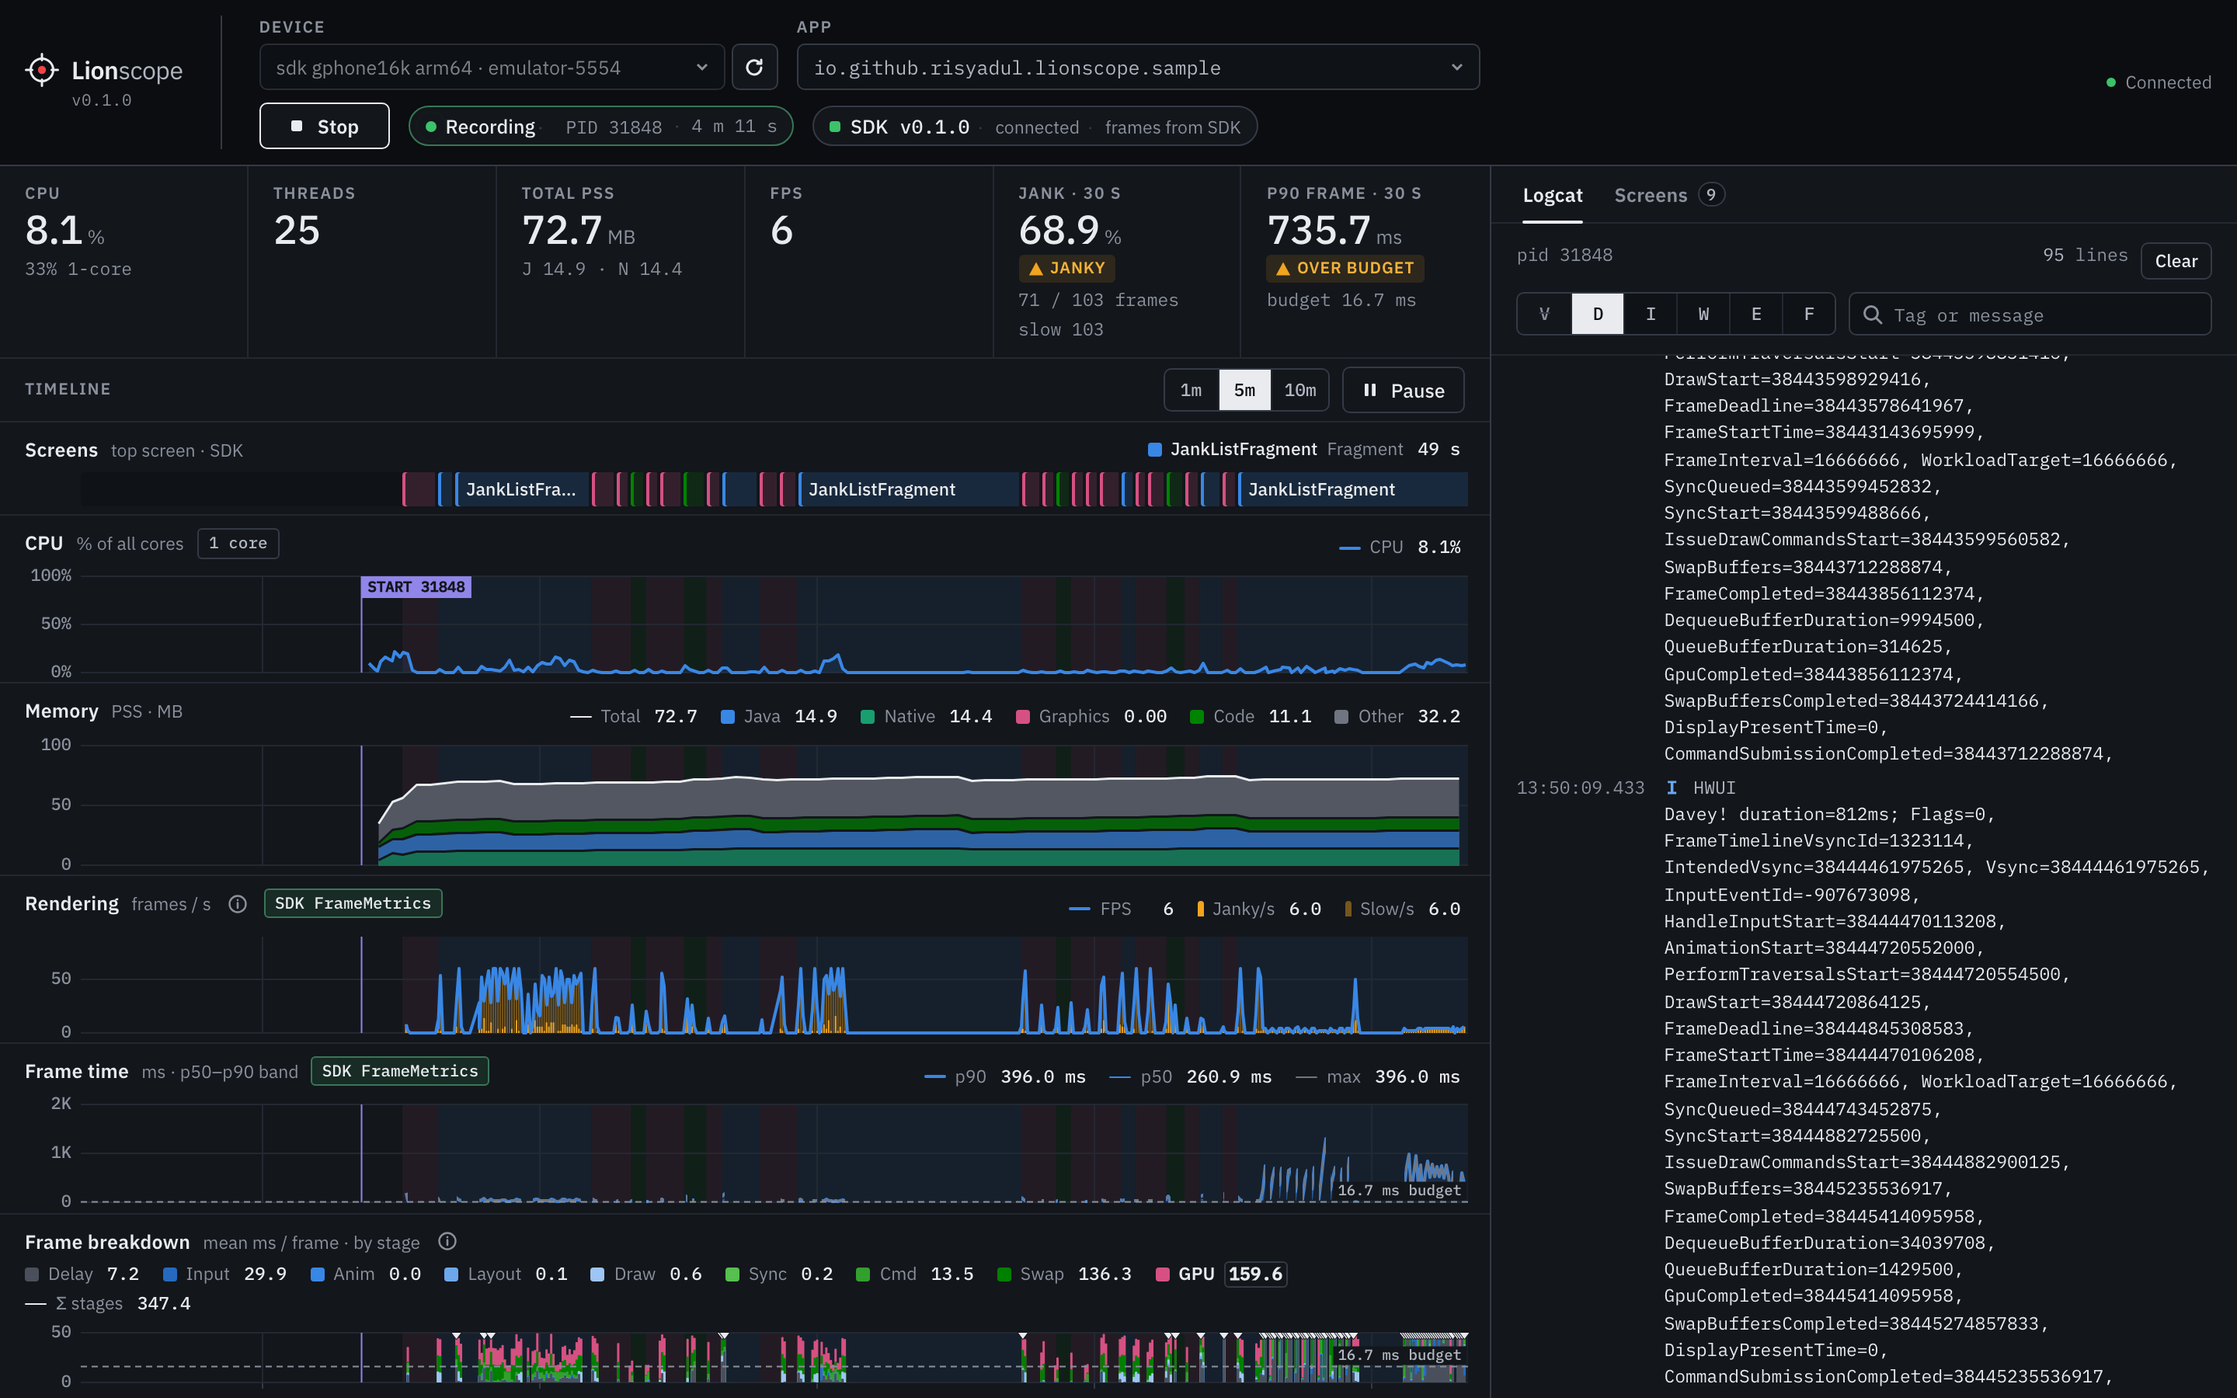
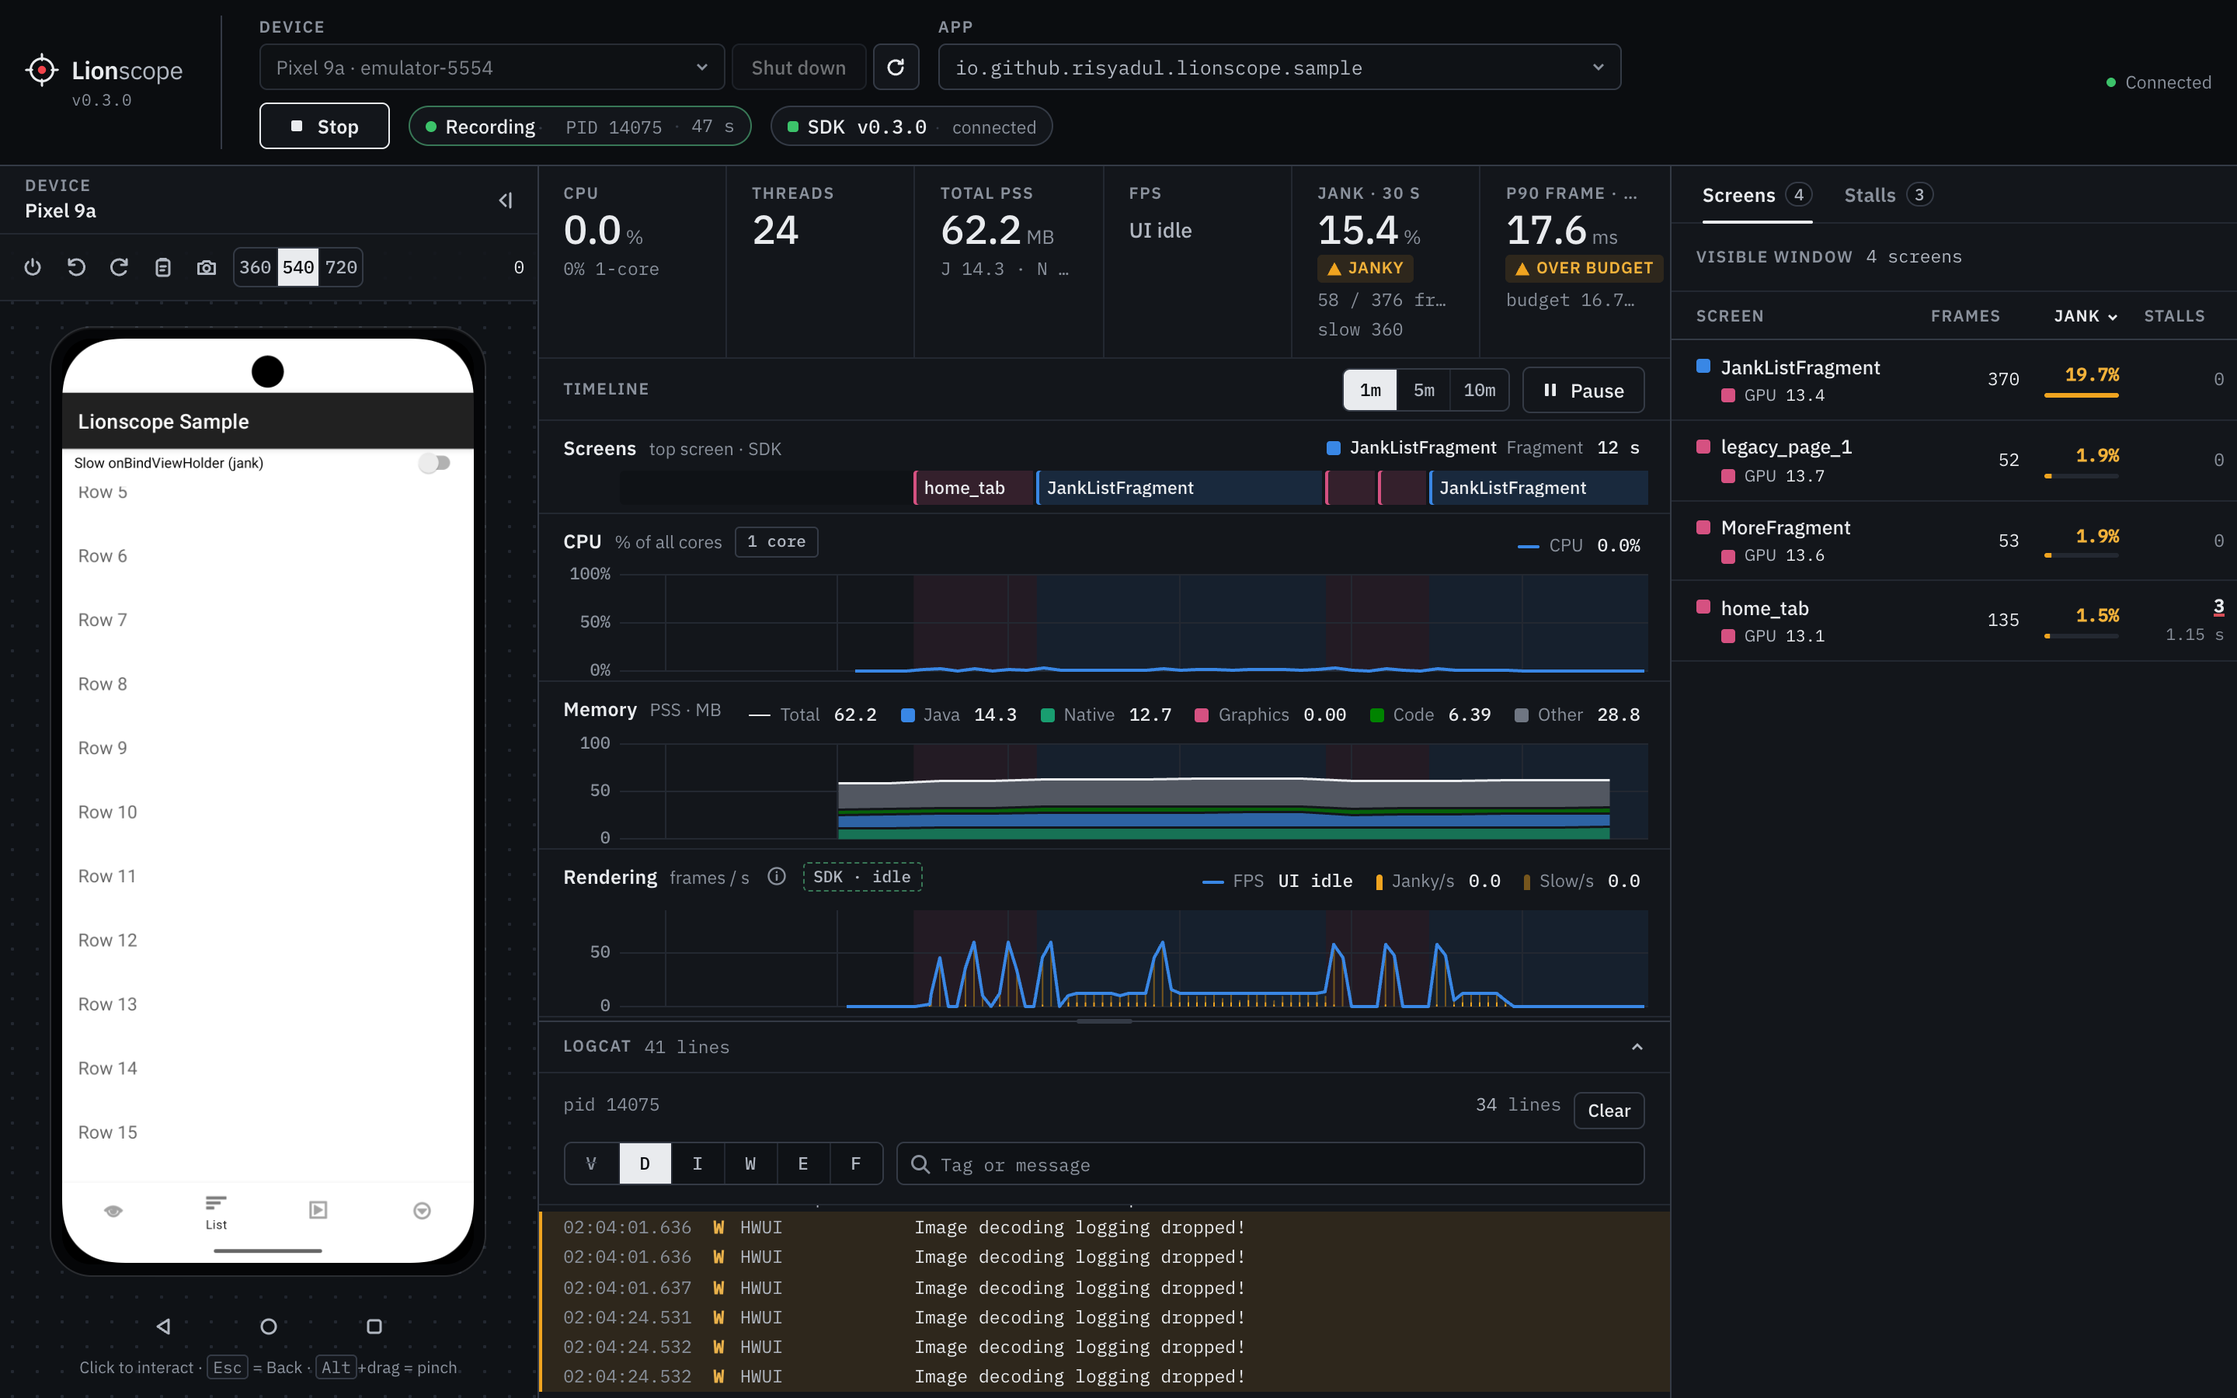
release: Lionscope 0.3.0

diff --git a/dashboard/test/screenPanel.test.tsx b/dashboard/test/screenPanel.test.tsx
@@ -1,0 +1,63 @@
+import { cleanup, fireEvent, render, screen, within } from '@testing-library/react';
+import { afterEach, describe, expect, it, vi } from 'vitest';
+import { ScreenPanel } from '../src/components/screens/ScreenPanel.tsx';
+import type { ScreenRow } from '../src/lib/screenStats.ts';
+
+afterEach(() => cleanup());
+
+const STAGES = {
+  input: 0,
+  animation: 0,
+  layout: 0,
+  draw: 2.1,
+  sync: 0,
+  command: 0,
+  swap: 0,
+  delay: 0.8,
+  gpu: 14,
+};
+
+function row(name: string, jankPercent: number): ScreenRow {
+  return {
+    name,
+    frames: 1284,
+    jankFrames: Math.round(12.84 * jankPercent),
+    slowFrames: 0,
+    jankPercent,
+    slowPercent: 0,
+    typicalP90Ms: 18.2,
+    worstP90Ms: 44,
+    stageMs: STAGES,
+    dominant: { stage: 'gpu', ms: 14 },
+    stallCount: 0,
+    stallMs: 0,
+  };
+}
+
+describe('ScreenPanel table', () => {
+  it('keeps Dominant its own column, read with its header, even where narrow panels fold it under the name', () => {
+    const onSelect = vi.fn();
+    render(
+      <ScreenPanel
+        rows={[row('JankListFragment', 42.3), row('home_tab', 0.4)]}
+        empty={null}
+        selected={null}
+        onSelect={onSelect}
+        showStalls
+      />,
+    );
+    const table = screen.getByRole('table');
+    const headers = within(table)
+      .getAllByRole('columnheader')
+      .map((th) => th.textContent);
+    expect(headers).toEqual(['Screen', 'Frames', 'Jank', 'Slow', 'p90 typ', 'Stalls', 'Dominant']);
+
+    const [, first] = within(table).getAllByRole('row');
+    const cells = within(first as HTMLElement).getAllByRole('cell');
+    expect(cells.at(-1)?.textContent).toBe('GPU14.0');
+    // The stage isn't part of the row header's button: its name stays the screen name.
+    const name = within(first as HTMLElement).getByRole('button', { name: 'JankListFragment' });
+    fireEvent.click(name);
+    expect(onSelect).toHaveBeenCalledWith('JankListFragment');
+  });
+});

diff --git a/dashboard/src/components/screens/screensNarrow.css b/dashboard/src/components/screens/screensNarrow.css
@@ -1,0 +1,67 @@
+/* Screens table in a narrow side panel (container `screens`, declared in screens.css). Loaded after it. */
+
+/* Narrow panel, sized for the widest row (Stalls shown): drop slow first, then fold Dominant under the
+   screen name, then drop p90, so screen names keep room and nothing is clipped. */
+@container screens (max-width: 600px) {
+  .screens-table [data-col='slowPercent'] {
+    display: none;
+  }
+}
+
+/* Dominant stays its own cell (its header is still read out), drawn as a second line under the name. */
+@container screens (max-width: 540px) {
+  .screens-table tbody tr {
+    position: relative;
+  }
+
+  /* The name takes every spare pixel; the figures hug the right edge. */
+  .screens-table tbody th[data-col='name'] {
+    width: 100%;
+    padding-bottom: 25px;
+  }
+
+  .screens-table thead th[data-col='dominant'] {
+    position: absolute;
+    width: 1px;
+    height: 1px;
+    overflow: hidden;
+    clip: rect(0, 0, 0, 0);
+    border: 0;
+  }
+
+  /* Lined up with the name, past its swatch (9px + 7px gap). */
+  .screens-table td[data-col='dominant'] {
+    position: absolute;
+    bottom: 7px;
+    left: calc(var(--space-4) + 16px);
+    padding: 0;
+  }
+
+  .screens-table td[data-col='dominant'] .dominant {
+    font-size: var(--text-overline);
+  }
+}
+
+@container screens (max-width: 430px) {
+  .screens-table [data-col='typicalP90Ms'] {
+    display: none;
+  }
+}
+
+/* Phone-width panel: tighter gutters buy the name a few more characters. */
+@container screens (max-width: 340px) {
+  .screens-table tbody th,
+  .screens-table td,
+  .sort-btn {
+    padding-inline: 5px;
+  }
+
+  .screens-table tbody th[data-col='name'],
+  th[data-col='name'] .sort-btn {
+    padding-left: var(--space-3);
+  }
+
+  .screens-table td[data-col='dominant'] {
+    left: calc(var(--space-3) + 16px);
+  }
+}

diff --git a/dashboard/src/components/screens/ScreenPanel.tsx b/dashboard/src/components/screens/ScreenPanel.tsx
@@ -13,6 +13,7 @@ import { JANK_FLAG_PERCENT } from '../../lib/stats.ts';
 import type { ScreensEmpty } from '../../lib/viewState.ts';
 import { SDK_GRADLE_SNIPPET, SDK_SETTINGS_NOTE } from '../topbar/SdkStatus.tsx';
 import './screens.css';
+import './screensNarrow.css';
 
 const NO_SCREEN_LABEL = 'no screen';
 
@@ -234,7 +235,8 @@ export function ScreenPanel({ rows, empty, selected, onSelect, showStalls = fals
                       </button>
                     </th>
                   ))}
-                  <th scope="col" data-col="dominant">
+                  {/* Explicit roles: narrow panels position this column out of the table layout. */}
+                  <th scope="col" data-col="dominant" role="columnheader">
                     <span title="Stage with the largest share of frame time (frame-weighted mean ms)">
                       Dominant
                     </span>
@@ -315,7 +317,7 @@ export function ScreenPanel({ rows, empty, selected, onSelect, showStalls = fals
                           )}
                         </td>
                       )}
-                      <td data-col="dominant">
+                      <td data-col="dominant" role="cell">
                         {row.dominant ? (
                           <span className="dominant" title={STAGE_LABELS[row.dominant.stage]}>
                             <span

diff --git a/dashboard/src/components/topbar/SdkStatus.tsx b/dashboard/src/components/topbar/SdkStatus.tsx
@@ -8,11 +8,11 @@ import type { SdkStatus as SdkState } from '@lionscope/protocol/wire';
 export const SDK_GRADLE_SNIPPET = `// settings.gradle (dependencyResolutionManagement) or app/build.gradle repositories
 maven { url "https://jitpack.io"; content { includeGroup "com.github.risyadul.Lionscope" } }
 // app/build.gradle
-debugImplementation "com.github.risyadul.Lionscope:lionscope:0.2.0"`;
+debugImplementation "com.github.risyadul.Lionscope:lionscope:0.3.0"`;
 
 /** Projects that centralise repositories (FAIL_ON_PROJECT_REPOS) can't declare them per module. */
 export const SDK_SETTINGS_NOTE =
-  'If the project uses dependencyResolutionManagement, put the maven block in settings.gradle instead. Apps that call the Lionscope API explicitly also add releaseImplementation "com.github.risyadul.Lionscope:lionscope-noop:0.2.0".';
+  'If the project uses dependencyResolutionManagement, put the maven block in settings.gradle instead. Apps that call the Lionscope API explicitly also add releaseImplementation "com.github.risyadul.Lionscope:lionscope-noop:0.3.0".';
 
 type CopyState = 'idle' | 'copied' | 'failed';
 

diff --git a/dashboard/test/screensApp.test.tsx b/dashboard/test/screensApp.test.tsx
@@ -120,14 +120,14 @@ describe('SDK status', () => {
     fireEvent.click(button);
     const dialog = screen.getByRole('dialog', { name: 'Add the Lionscope SDK' });
     expect(dialog.textContent).toContain(
-      'debugImplementation "com.github.risyadul.Lionscope:lionscope:0.2.0"',
+      'debugImplementation "com.github.risyadul.Lionscope:lionscope:0.3.0"',
     );
     // Public JitPack artifact, repository scoped to the Lionscope group; no mavenLocal, no credentials.
     expect(dialog.textContent).toContain(
       'maven { url "https://jitpack.io"; content { includeGroup "com.github.risyadul.Lionscope" } }',
     );
     expect(dialog.textContent).toContain(
-      'releaseImplementation "com.github.risyadul.Lionscope:lionscope-noop:0.2.0"',
+      'releaseImplementation "com.github.risyadul.Lionscope:lionscope-noop:0.3.0"',
     );
     expect(dialog.textContent).not.toContain('mavenLocal');
     expect(dialog.textContent).toContain('dependencyResolutionManagement');

diff --git a/dashboard/src/components/screens/screens.css b/dashboard/src/components/screens/screens.css
@@ -377,16 +377,3 @@ td[data-col='dominant'] {
   font-size: var(--text-meta);
   line-height: 1.55;
 }
-
-/* Narrow panel: drop slow first, then p90, so screen names keep room. */
-@container screens (max-width: 560px) {
-  .screens-table [data-col='slowPercent'] {
-    display: none;
-  }
-}
-
-@container screens (max-width: 440px) {
-  .screens-table [data-col='typicalP90Ms'] {
-    display: none;
-  }
-}

diff --git a/README.md b/README.md
@@ -15,11 +15,12 @@ next to the charts (0.3.0+); physical devices follow in a later release.
 
 <picture>
   <source media="(prefers-color-scheme: dark)" srcset="docs/images/dashboard-dark.png">
-  <img alt="Lionscope dashboard profiling the sample app: screens lane, CPU, memory, rendering, frame time and frame breakdown charts on one time axis, with logcat on the right" src="docs/images/dashboard-light.png">
+  <img alt="Lionscope dashboard profiling the sample app: the emulator's screen in the Device column on the left, the screens lane, CPU, memory and rendering charts on one time axis with logcat below, and the Screens tab on the right" src="docs/images/dashboard-light.png">
 </picture>
 
-<sub>The bundled sample app on an emulator with its deliberate-jank list enabled: screen bands across all
-charts, SDK FrameMetrics in the Rendering, Frame time and Frame breakdown lanes, and the app's logcat.</sub>
+<sub>The bundled sample app on a headless emulator, operated from the Device column: screen bands across all
+charts, SDK FrameMetrics in the Rendering lane, logcat below the timeline, and the Screens tab ranking the
+janky list first.</sub>
 
 ## What the dashboard shows
 
@@ -50,16 +51,17 @@ With the SDK installed in the app's debug build, the dashboard also shows:
 While SDK frames flow, `gfxinfo` polling pauses (no double observation, no `reset` clash); it resumes 3 s after
 they stop. The dashboard shows whether the SDK is connected (and its version), or how to add it.
 
-<img alt="Screens tab: per-screen frames, jank %, typical and worst p90 frame time, and the dominant frame stage, sorted by jank" src="docs/images/dashboard-screens.png">
+<img width="363" alt="Screens tab: per-screen frames, jank %, stalls and the dominant frame stage, sorted by jank" src="docs/images/dashboard-screens.png">
 
-<sub>The Screens tab ranks screens by jank % and names the dominant frame stage for each one. Names come from the
-app's own screen alias when it has one (`home_tab`, `detail_page`, `legacy_page_2`), otherwise from the class.</sub>
+<sub>The Screens tab ranks screens by jank % and names the dominant frame stage for each one (p90 and slow frames
+join in when the panel is wider). Names come from the app's own screen alias when it has one (`home_tab`,
+`legacy_page_1`), otherwise from the class.</sub>
 
-<img alt="Stalls tab: offenders ranked by culprit line (SlowWork.kt:16), StrictMode DiskRead events and the Main thread lane" src="docs/images/dashboard-stalls.png">
+<img width="363" alt="Stalls tab: watchdog threshold and StrictMode controls, offenders ranked by culprit line (SlowWork.kt:16), and the stall events" src="docs/images/dashboard-stalls.png">
 
-<sub>The Stalls tab after tapping the sample's "Block main thread" and "Read file on main thread" buttons: the
-offenders table names the line that blocked the main thread, StrictMode DiskRead violations are listed with
-their stacks, and the Main thread lane marks each stall on the shared time axis.</sub>
+<sub>The Stalls tab after tapping the sample's "Block main thread" button three times from the Device column: the
+offenders table names the line that blocked the main thread and the screen it happened on, and each stall is
+listed with its duration; with StrictMode on, disk and network violations join the list with their stacks.</sub>
 
 ### Finding the line that blocks the main thread
 
@@ -149,7 +151,7 @@ credentials or opt-in property are needed.
 // settings.gradle (dependencyResolutionManagement) or app/build.gradle repositories
 maven { url "https://jitpack.io"; content { includeGroup "com.github.risyadul.Lionscope" } }
 // app/build.gradle
-debugImplementation "com.github.risyadul.Lionscope:lionscope:0.2.0"
+debugImplementation "com.github.risyadul.Lionscope:lionscope:0.3.0"
 ```
 
 If the project uses `dependencyResolutionManagement`, the `maven` block goes in `settings.gradle`; otherwise
@@ -182,7 +184,7 @@ Apps that call the API explicitly (`Lionscope.install()` / `Lionscope.isActive()
 release; for them there is a no-op artifact with the same API:
 
 ```groovy
-releaseImplementation "com.github.risyadul.Lionscope:lionscope-noop:0.2.0"
+releaseImplementation "com.github.risyadul.Lionscope:lionscope-noop:0.3.0"
 ```
 
 ### Cost when no dashboard is connected
@@ -329,7 +331,7 @@ cd android-sdk
 ./gradlew :lionscope:publishToMavenLocal :lionscope-noop:publishToMavenLocal   # same coordinates as JitPack
 ```
 
-The published version comes from the `lionscopeVersion` Gradle property (default `0.2.0`); on JitPack it is
+The published version comes from the `lionscopeVersion` Gradle property (default `0.3.0`); on JitPack it is
 the git tag. See [CONTRIBUTING.md](CONTRIBUTING.md) for how to contribute.
 
 ## License

diff --git a/CHANGELOG.md b/CHANGELOG.md
@@ -4,7 +4,7 @@ All notable changes to Lionscope are documented here. The format is based on
 [Keep a Changelog](https://keepachangelog.com/en/1.1.0/), and the project follows
 [Semantic Versioning](https://semver.org/). The npm package, the server and the Android SDK share one version.
 
-## [Unreleased]
+## [0.3.0] - 2026-10-22
 
 ### Added
 
@@ -25,10 +25,16 @@ All notable changes to Lionscope are documented here. The format is based on
 ### Changed
 
 - Layout: Device column on the left, logcat in a resizable, collapsible drawer below the timeline, Screens and
-  Stalls tabs on the right; below 1280 px the device screen opens as a drawer.
+  Stalls tabs on the right; below 1280 px the device screen opens as a drawer. The Screens table folds the dominant
+  stage under the screen name in a narrow panel, so names stay readable.
 - Dashboard protocol version 2 (the dashboard and the server ship together).
 - The CLI bundle includes a gRPC client (`@grpc/grpc-js`, `@grpc/proto-loader`); the npm package still has no
   runtime dependencies.
+
+### Fixed
+
+- Starting a second Lionscope server on the same machine no longer removes the first one's `adb reverse` mapping
+  (which cut its SDK link mid-session).
 
 ## [0.2.0] - 2026-10-21
 
@@ -109,7 +115,7 @@ Initial open-source release.
 - SDK gateway over `adb reverse` (NDJSON over TCP): hello timeout, rate limits, line and connection caps, and
   PID verification against the session's device before any data is accepted.
 
-[Unreleased]: https://github.com/risyadul/Lionscope/compare/0.2.0...HEAD
+[0.3.0]: https://github.com/risyadul/Lionscope/compare/0.2.0...0.3.0
 [0.2.0]: https://github.com/risyadul/Lionscope/compare/0.1.1...0.2.0
 [0.1.1]: https://github.com/risyadul/Lionscope/compare/0.1.0...0.1.1
 [0.1.0]: https://github.com/risyadul/Lionscope/releases/tag/0.1.0

diff --git a/cli/README.md b/cli/README.md
@@ -24,7 +24,7 @@ Options:
 ```
 
 Nothing needs to be installed on the device. For screen names and per-frame `FrameMetrics`, add the optional
-debug-only SDK to the app (`debugImplementation "com.github.risyadul.Lionscope:lionscope:0.2.0"` from JitPack).
+debug-only SDK to the app (`debugImplementation "com.github.risyadul.Lionscope:lionscope:0.3.0"` from JitPack).
 
 Documentation, the SDK and the source: <https://github.com/risyadul/Lionscope>. Licensed under the
 [Apache License 2.0](LICENSE); bundled third-party licenses are in `dist/THIRD_PARTY_NOTICES.txt`.
